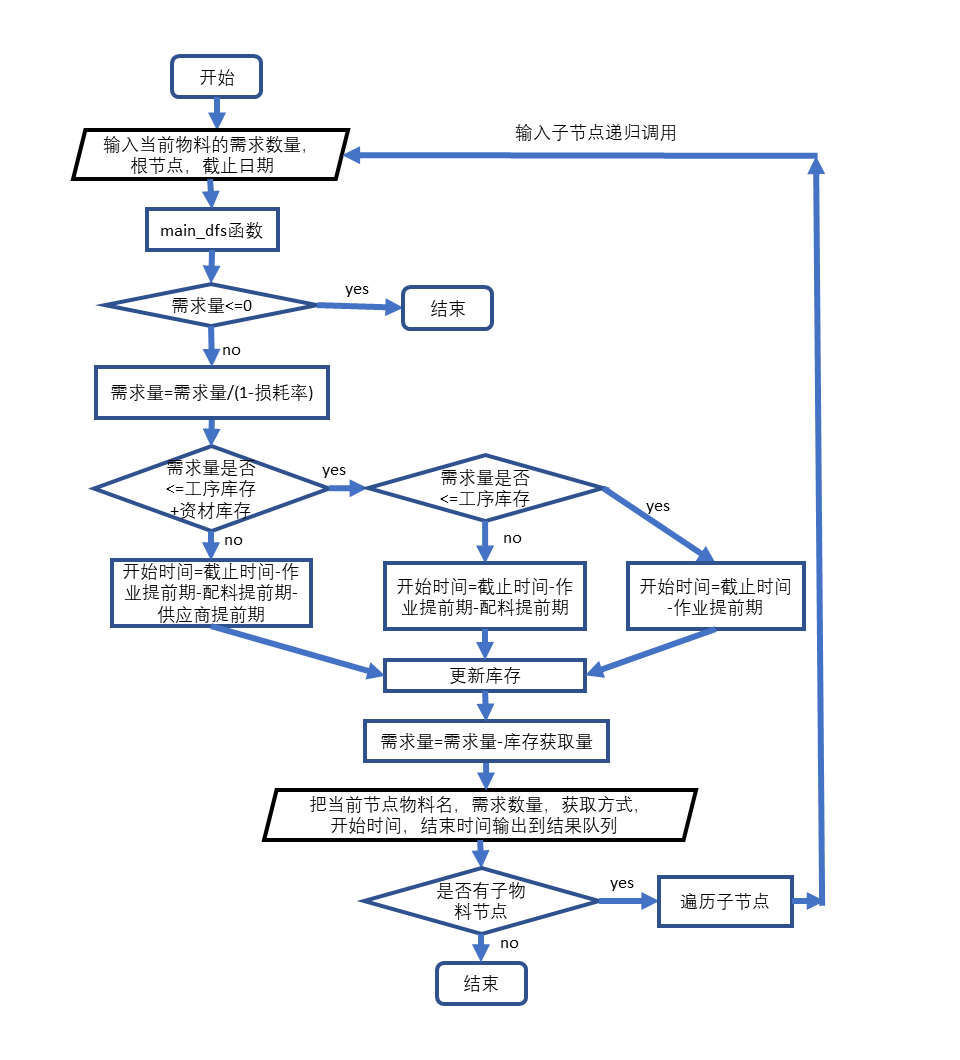
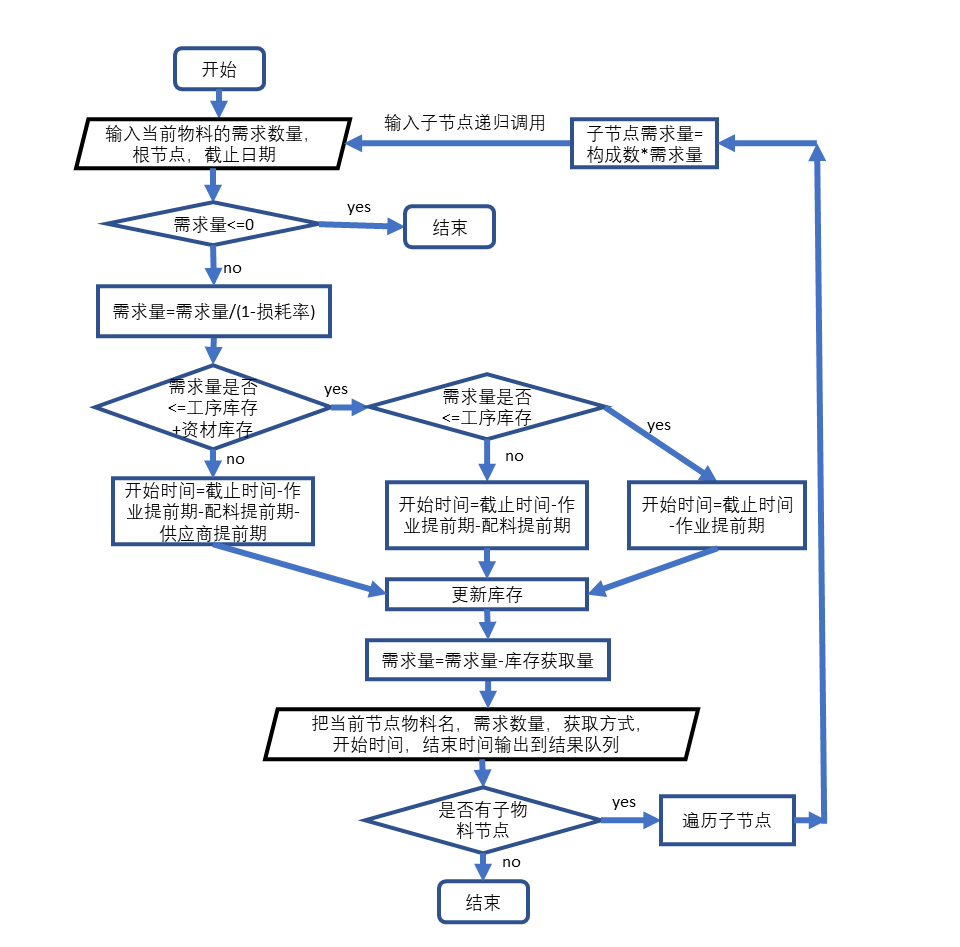
img

Changed region(s): [[0.0625, 0.0306, 0.875, 0.9799], [0.8438, 0.1531, 0.875, 0.245]]

diff --git a/README.md b/README.md
@@ -1,6 +1,6 @@
 # simple-erp-system
 
-✨ **基于 Python, FastAPI, sqlite3 的简单 ERP 计算系统**：实现 MPS(Master Production Schedule) 的计算，按时间分段计划企业应生产的最终产品的数量和交货期；资产负债表公式查询。
+✨ **基于 Python, FastAPI, sqlite3 的简单 ERP 系统**：企业资源计划系统（Enterprise Resource Planning System），实现 MPS(Master Production Schedule) 的计算，按时间分段计划企业应生产的最终产品的数量和交货期；资产负债表公式查询。
 
 [个人网站：www.bytesc.top](http://www.bytesc.top) 包含项目 📌 [在线演示](http://www.bytesc.top)  📌 
 
@@ -24,7 +24,7 @@
 
 ![](./readme_img/img0.png)
 
-🚩 算法流程：
+🚩 DPS 算法流程：
 
 ![](./readme_img/imga.png)
 
@@ -111,11 +111,6 @@ if __name__ == "__main__":
 - `templates` 文件夹存放待渲染的 html 模板文件
 - `sql` 文件夹存放创建数据库的 sql 代码
 
-## 有待完善的部分
-
-- 安全性：访问控制尚不完善。
-- 健壮性：异常处理机制尚不完善。
-- 多用户：目前多用户共享数据区，不能独立计算。
 
 # 开源许可证
 
